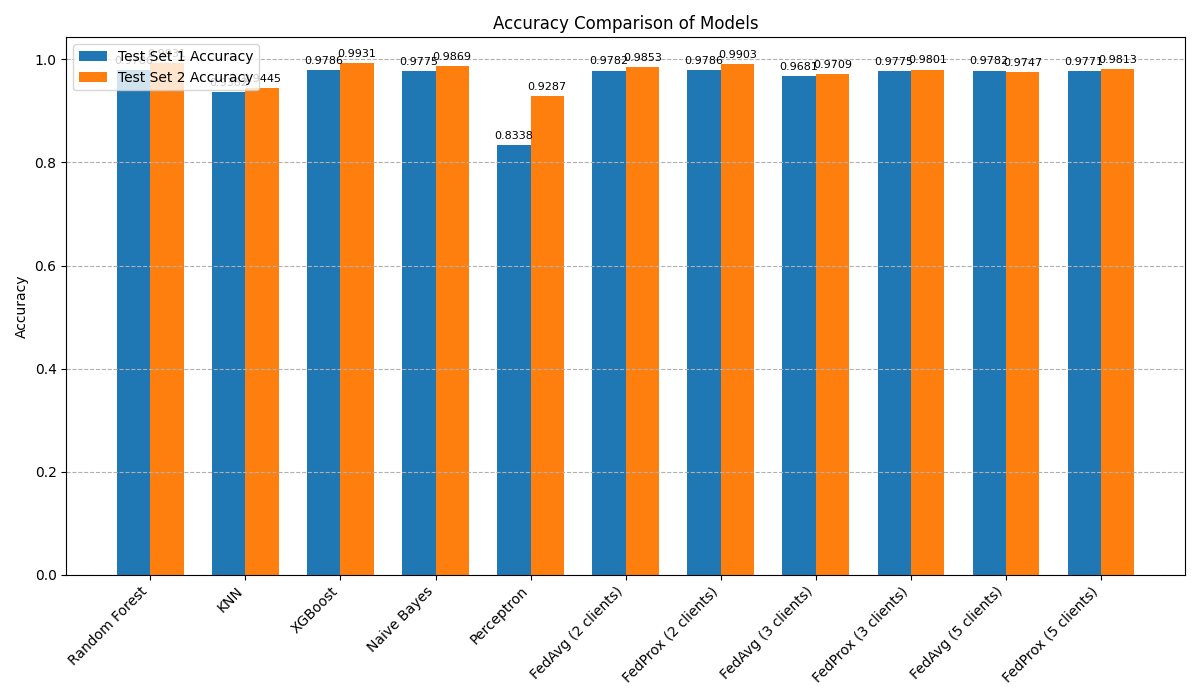
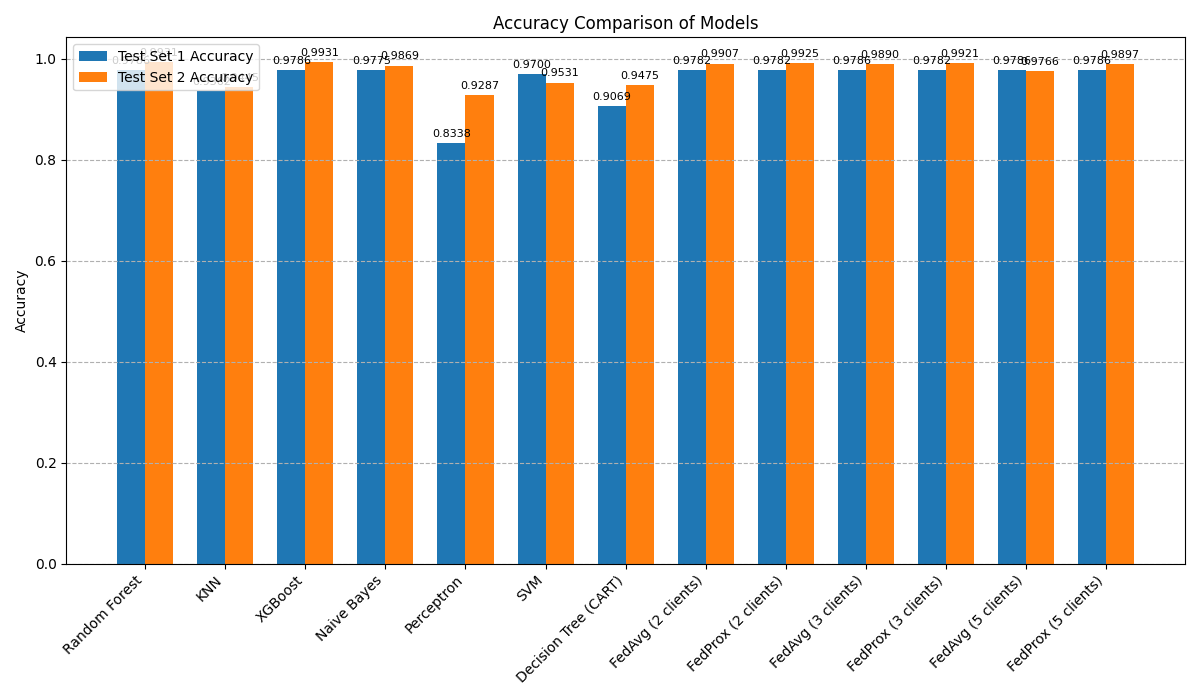
SVM added

diff --git a/federated_learning.py b/federated_learning.py
@@ -7,6 +7,7 @@ from sklearn.neighbors import KNeighborsClassifier
 from sklearn.naive_bayes import GaussianNB
 from xgboost import XGBClassifier
 from sklearn.linear_model import Perceptron
+from sklearn.tree import DecisionTreeClassifier
 from sklearn.metrics import accuracy_score, precision_score, recall_score, f1_score, confusion_matrix
 import torch
 import torch.nn as nn
@@ -21,6 +22,7 @@ import warnings
 import os
 import matplotlib.pyplot as plt
 import seaborn as sns
+from sklearn.svm import SVC
 
 warnings.filterwarnings('ignore')
 
@@ -117,7 +119,9 @@ def train_classical_models(X_train, y_train, X_test1, y_test1, X_test2, y_test2)
         'KNN': KNeighborsClassifier(n_neighbors=20),
         'XGBoost': XGBClassifier(n_estimators=10, max_depth=2, learning_rate=0.3, random_state=42, use_label_encoder=False, eval_metric='logloss'),
         'Naive Bayes': GaussianNB(),
-        'Perceptron': Perceptron(max_iter=50, eta0=0.5, random_state=42)
+        'Perceptron': Perceptron(max_iter=50, eta0=0.5, random_state=42),
+        'SVM': SVC(kernel='rbf', C=1.0, random_state=42, probability=True),
+        'Decision Tree (CART)': DecisionTreeClassifier(random_state=42)
     }
     
     results = {}
